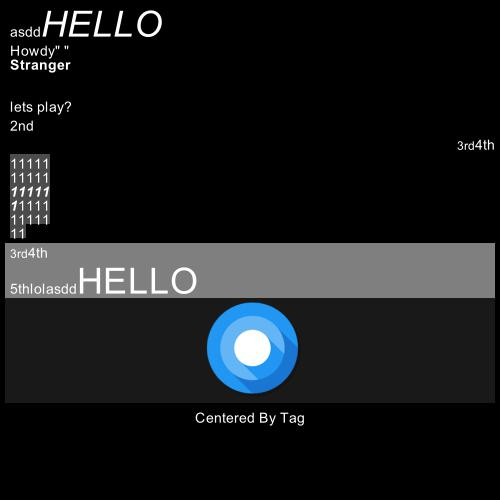
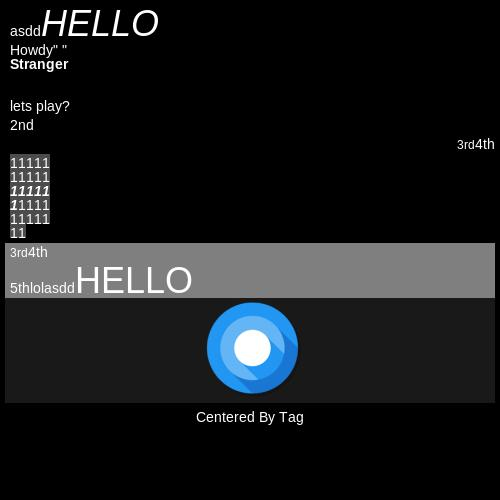
0.0.5 Release

diff --git a/src/tests/size.test.js b/src/tests/size.test.js
@@ -8,10 +8,10 @@ import Size from "../utils/size";
 describe("size tests", () => {
   it("instance test", () => {
     const result = new Size(1);
-    expect(result instanceof Number).toBeTruthy();
+    // expect(result instanceof Number).toBeTruthy();
     expect(result instanceof Size).toBeTruthy();
     expect(typeof result).toEqual("object");
-    expect(typeof result).toNotEqual("number");
+    // expect(typeof result).toNotEqual("number");
   });
   it("equals test", () => {
     // console.log("test", Size.zero() == Size.zero()); //eslint-disable-line
@@ -74,6 +74,7 @@ describe("size tests", () => {
   });
 
   it("em test", () => {
+    const size = new Size("1.5em");
     const testStructure = {
       parent: {
         parent: {
@@ -81,21 +82,34 @@ describe("size tests", () => {
             format: {
               font: {
                 size: new Size("10px"),
-              }
-            }
+              },
+            },
           },
-          format: {}
+          format: {
+            font: {
+              size: size,
+            },
+          },
         },
         format: {
           font: {
-            size: new Size("1.5em"),
-          }
-        }
-      }
+            size: size,
+          },
+        },
+      },
     };
     const result = new Size("1em").valueOf(testStructure);
     expect(result).toEqual(15);
 
   });
-
+  it("object compare", () => { // issue with inheriting number and object compare
+    const test = new Size(33);
+    const ob1 = {
+      x: test,
+    };
+    const ob2 = {
+      y: test,
+    };
+    expect(ob1.x === ob2.y).toBeTruthy();
+  });
 });

diff --git a/src/utils/size.js b/src/utils/size.js
@@ -1,6 +1,6 @@
 const sizeCheck = /([0-9|\.]*)([a-zA-Z|%]*)/;
 
-export default class Size extends Number {
+export default class Size {
   static test(e) {
     if (!isNaN(parseFloat(e))) {
       return true;
@@ -36,7 +36,7 @@ export default class Size extends Number {
     return a.equals(b);
   }
   constructor(s) {
-    super();
+    // super();
     // console.log("construct", s);
     if (typeof s === "number") {
       this.val = s;
@@ -82,10 +82,11 @@ export default class Size extends Number {
   valueOf(element, modifier) {
     switch ((this.measure || "").toLowerCase()) {
       case "em":
-        let target, current = element.parent;
+        let target, current = element;
         do { //eslint-disable-line
-          if (((current.format || {}).font || {}).size) {
-            target = ((current.format || {}).font || {}).size;
+          let {size} = ((current.format || {}).font || {});
+          if (size && size !== this) {
+            target = size;
             break;
           }
           if (!current.parent) {

diff --git a/README.md b/README.md
@@ -200,3 +200,8 @@ p {
 ### 0.0.4
 
 - patch for recursive em font sizing
+
+### 0.0.5
+
+- removed inheritancy of number with unit size class as it breaks object compare.
+- stopped em calculation from multipling on it self.
